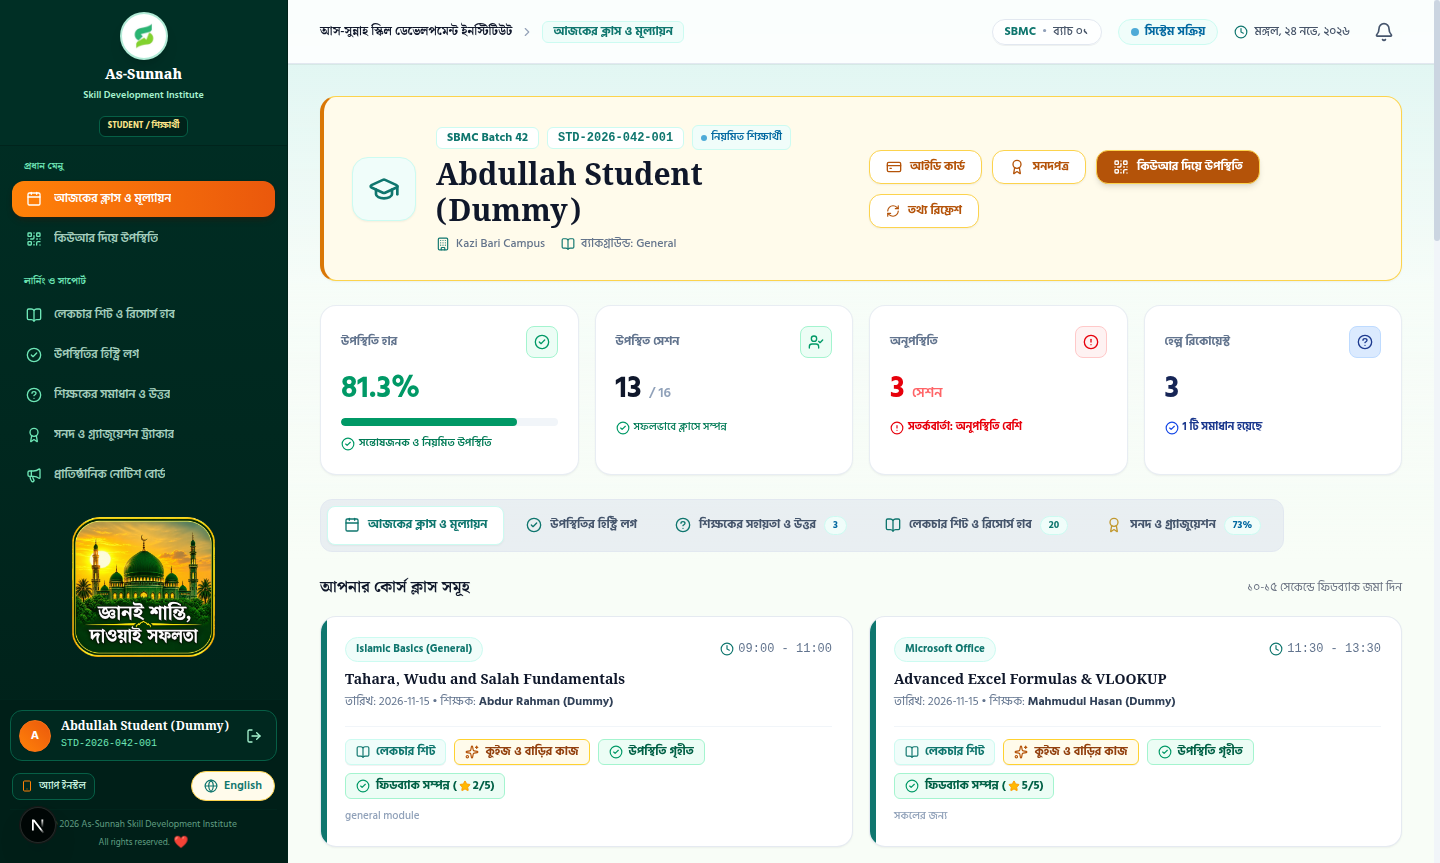
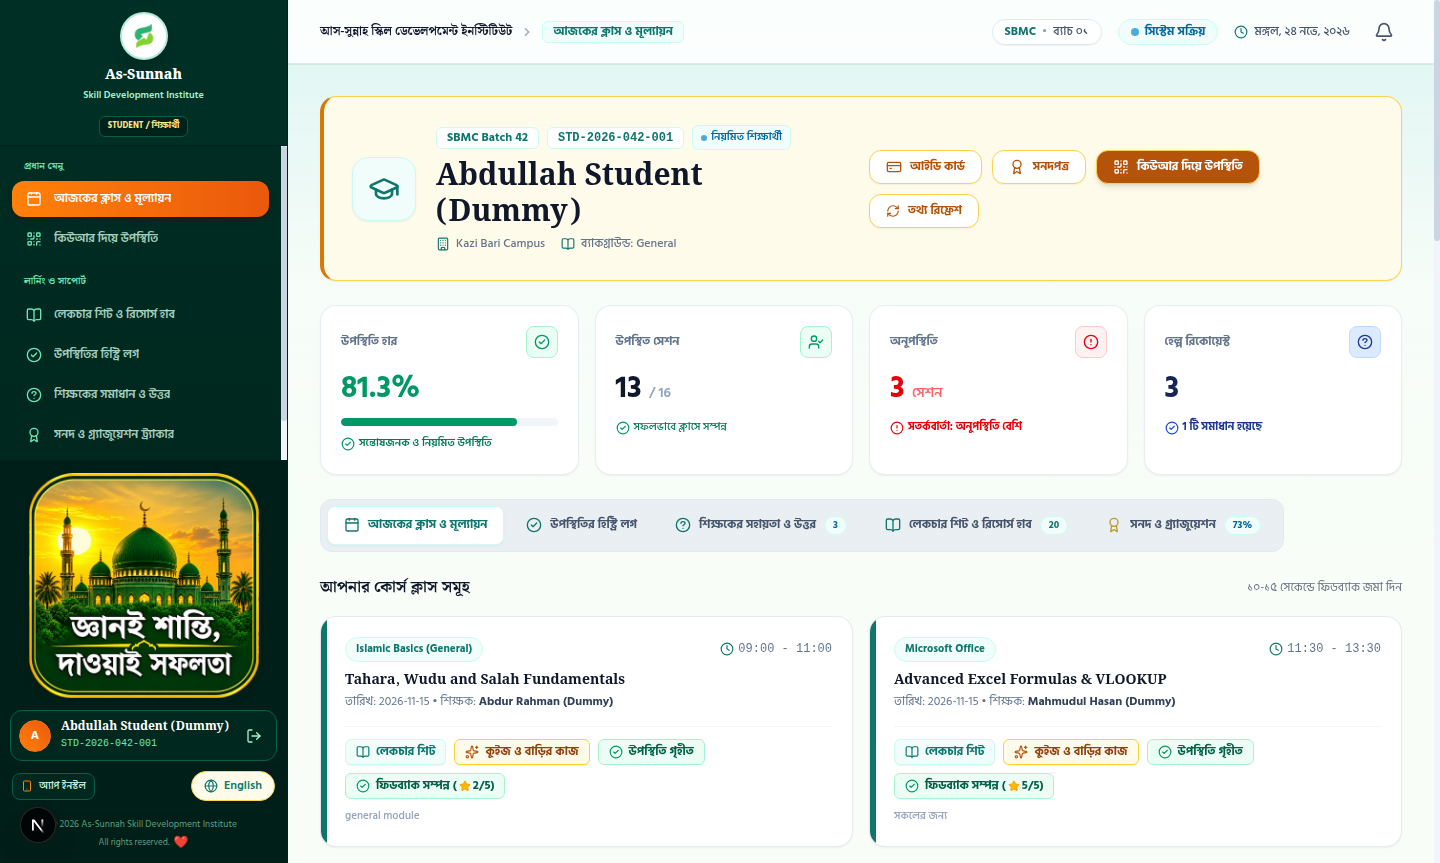
fix(student-ui): enlarge mosque card and position cleanly at bottom above user card

Changed region(s): [[0.0, 0.5423, 0.1875, 0.8134], [0.1875, 0.1808, 0.2188, 0.5122]]

diff --git a/web/src/components/layout/DashboardShell.tsx b/web/src/components/layout/DashboardShell.tsx
@@ -746,133 +746,118 @@ export default function DashboardShell({ children, role, noticeBanner }: Dashboa
           )}
 
           {/* Navigation Items (Serial by Serial) */}
-          <nav className="p-3 space-y-4 overflow-y-auto flex-1">
-            {navSections.map((sec, secIdx) => (
-              <div key={secIdx} className="space-y-1">
-                {(sec.titleBn || sec.titleEn) && (
-                  <p
-                    className={`px-3 text-[10px] font-bold uppercase tracking-widest mb-1.5 font-serif ${
-                      role === 'student' ? 'text-[#6EE7B7]' : 'text-[#B45309]'
-                    }`}
-                  >
-                    {isBangla ? sec.titleBn : sec.titleEn}
-                  </p>
-                )}
-
-                <ul className="space-y-1">
-                  {sec.items.map((item) => {
-                    const Icon = item.icon;
-                    const active = isLinkActive(item.href);
-
-                    return (
-                      <li key={item.href}>
-                        <Link
-                          href={item.href}
-                          onClick={() => handleNavClick(item.href)}
-                          className={`relative flex items-center justify-between gap-3 px-3.5 py-2.5 rounded-xl text-xs font-semibold transition-all cursor-pointer active:scale-[0.98] ${
-                            active
-                              ? role === 'student'
-                                ? 'bg-gradient-to-r from-[#FF8108] to-[#EA580C] text-white font-bold shadow-md shadow-orange-950/30'
-                                : 'bg-white text-[#B45309] shadow-xs border border-[#FCD34D] font-bold before:absolute before:left-0 before:top-2 before:bottom-2 before:w-1.5 before:bg-[#D97706] before:rounded-r'
-                              : role === 'student'
-                              ? 'text-[#D1FAE5]/80 hover:text-white hover:bg-white/10'
-                              : 'text-[#475569] hover:text-[#B45309] hover:bg-[#FEF3C7]/60'
-                          }`}
-                        >
-                          <div className="flex items-center gap-3 min-w-0">
-                            <Icon
-                              className={`w-4 h-4 shrink-0 ${
-                                active
-                                  ? 'text-white'
-                                  : role === 'student'
-                                  ? 'text-[#6EE7B7]'
-                                  : 'text-[#64748B] group-hover:text-[#B45309]'
-                              }`}
-                            />
-                            <span className="truncate">
-                              {isBangla ? item.labelBn : item.labelEn}
-                            </span>
-                          </div>
-
-                          {item.badge && (
-                            <span
-                              className={`px-1.5 py-0.5 rounded-full text-[10px] font-bold ${
-                                active
-                                  ? 'bg-white text-[#EA580C]'
-                                  : role === 'student'
-                                  ? 'bg-[#00221A] border border-[#065F46] text-[#6EE7B7]'
-                                  : 'bg-white/90 border border-[#FCD34D] text-[#B45309]'
-                              }`}
-                            >
-                              {item.badge}
-                            </span>
-                          )}
-                        </Link>
-                      </li>
-                    );
-                  })}
-                </ul>
-              </div>
-            ))}
-
-            {/* If in Reports Hub, show quick back to user dashboard */}
-            {role === 'reports' && (
-              <div className="pt-2 border-t border-[#FCD34D]/70">
-                <Link
-                  href={
-                    user?.role === 'super_admin'
-                      ? '/admin'
-                      : user?.role === 'teacher'
-                      ? '/teacher'
-                      : user?.role === 'student'
-                      ? '/student'
-                      : '/coordinator'
-                  }
-                  className="flex items-center gap-2.5 px-3.5 py-2.5 rounded-xl text-xs font-bold text-[#B45309] hover:bg-[#FEF3C7]/60 transition-colors"
-                >
-                  <ArrowLeft className="w-4 h-4 text-[#B45309]" />
-                  <span>{isBangla ? 'ড্যাশবোর্ডে ফিরে যান' : 'Back to Dashboard'}</span>
-                </Link>
-              </div>
-            )}
-
-            {/* Super Admin Navigation Customizer Button */}
-            {role === 'super_admin' && (
-              <div className="pt-2 border-t border-[#FCD34D]/70">
-                <button
-                  type="button"
-                  onClick={() => setMenuManagerOpen(true)}
-                  className="w-full py-2.5 px-3 rounded-xl bg-white hover:bg-[#FEF3C7] text-[#B45309] border border-[#FCD34D] text-xs font-bold transition flex items-center justify-between shadow-xs cursor-pointer active:scale-98"
-                >
-                  <div className="flex items-center gap-2">
-                    <Settings className="w-4 h-4 text-[#B45309]" />
-                    <span>{isBangla ? 'মেনু এডিটর ও আর্কাইভ' : 'Menu & Archive Control'}</span>
-                  </div>
-                  {adminMenus.some((m) => m.isArchived) && (
-                    <span className="px-1.5 py-0.2 rounded-full text-[9px] bg-[#B45309]/15 text-[#B45309] font-extrabold border border-[#B45309]/30">
-                      {adminMenus.filter((m) => m.isArchived).length} {isBangla ? 'হাইড' : 'hidden'}
-                    </span>
+          <nav className="p-3 overflow-y-auto flex-1 flex flex-col justify-between">
+            <div className="space-y-4">
+              {navSections.map((sec, secIdx) => (
+                <div key={secIdx} className="space-y-1">
+                  {(sec.titleBn || sec.titleEn) && (
+                    <p
+                      className={`px-3 text-[10px] font-bold uppercase tracking-widest mb-1.5 font-serif ${
+                        role === 'student' ? 'text-[#6EE7B7]' : 'text-[#B45309]'
+                      }`}
+                    >
+                      {isBangla ? sec.titleBn : sec.titleEn}
+                    </p>
                   )}
-                </button>
-              </div>
-            )}
 
-            {/* Islamic Mosque Artwork Quote Card (Student Only - Pure Image with NO black border) */}
-            {role === 'student' && (
-              <div className="pt-2 px-1 flex justify-center">
-                <div className="relative group max-w-[210px]">
-                  <Image
-                    src="/islamic-sidebar-card.png"
-                    alt="জ্ঞানই শান্তি, দাওয়াই সফলতা"
-                    width={260}
-                    height={260}
-                    priority
-                    quality={100}
-                    className="w-full h-auto max-h-[140px] object-contain group-hover:scale-102 transition-transform duration-300"
-                  />
+                  <ul className="space-y-1">
+                    {sec.items.map((item) => {
+                      const Icon = item.icon;
+                      const active = isLinkActive(item.href);
+
+                      return (
+                        <li key={item.href}>
+                          <Link
+                            href={item.href}
+                            onClick={() => handleNavClick(item.href)}
+                            className={`relative flex items-center justify-between gap-3 px-3.5 py-2.5 rounded-xl text-xs font-semibold transition-all cursor-pointer active:scale-[0.98] ${
+                              active
+                                ? role === 'student'
+                                  ? 'bg-gradient-to-r from-[#FF8108] to-[#EA580C] text-white font-bold shadow-md shadow-orange-950/30'
+                                  : 'bg-white text-[#B45309] shadow-xs border border-[#FCD34D] font-bold before:absolute before:left-0 before:top-2 before:bottom-2 before:w-1.5 before:bg-[#D97706] before:rounded-r'
+                                : role === 'student'
+                                ? 'text-[#D1FAE5]/80 hover:text-white hover:bg-white/10'
+                                : 'text-[#475569] hover:text-[#B45309] hover:bg-[#FEF3C7]/60'
+                            }`}
+                          >
+                            <div className="flex items-center gap-3 min-w-0">
+                              <Icon
+                                className={`w-4 h-4 shrink-0 ${
+                                  active
+                                    ? 'text-white'
+                                    : role === 'student'
+                                    ? 'text-[#6EE7B7]'
+                                    : 'text-[#64748B] group-hover:text-[#B45309]'
+                                }`}
+                              />
+                              <span className="truncate">
+                                {isBangla ? item.labelBn : item.labelEn}
+                              </span>
+                            </div>
+
+                            {item.badge && (
+                              <span
+                                className={`px-1.5 py-0.5 rounded-full text-[10px] font-bold ${
+                                  active
+                                    ? 'bg-white text-[#EA580C]'
+                                    : role === 'student'
+                                    ? 'bg-[#00221A] border border-[#065F46] text-[#6EE7B7]'
+                                    : 'bg-white/90 border border-[#FCD34D] text-[#B45309]'
+                                }`}
+                              >
+                                {item.badge}
+                              </span>
+                            )}
+                          </Link>
+                        </li>
+                      );
+                    })}
+                  </ul>
                 </div>
-              </div>
-            )}
+              ))}
+
+              {/* If in Reports Hub, show quick back to user dashboard */}
+              {role === 'reports' && (
+                <div className="pt-2 border-t border-[#FCD34D]/70">
+                  <Link
+                    href={
+                      user?.role === 'super_admin'
+                        ? '/admin'
+                        : user?.role === 'teacher'
+                        ? '/teacher'
+                        : user?.role === 'student'
+                        ? '/student'
+                        : '/coordinator'
+                    }
+                    className="flex items-center gap-2.5 px-3.5 py-2.5 rounded-xl text-xs font-bold text-[#B45309] hover:bg-[#FEF3C7]/60 transition-colors"
+                  >
+                    <ArrowLeft className="w-4 h-4 text-[#B45309]" />
+                    <span>{isBangla ? 'ড্যাশবোর্ডে ফিরে যান' : 'Back to Dashboard'}</span>
+                  </Link>
+                </div>
+              )}
+
+              {/* Super Admin Navigation Customizer Button */}
+              {role === 'super_admin' && (
+                <div className="pt-2 border-t border-[#FCD34D]/70">
+                  <button
+                    type="button"
+                    onClick={() => setMenuManagerOpen(true)}
+                    className="w-full py-2.5 px-3 rounded-xl bg-white hover:bg-[#FEF3C7] text-[#B45309] border border-[#FCD34D] text-xs font-bold transition flex items-center justify-between shadow-xs cursor-pointer active:scale-98"
+                  >
+                    <div className="flex items-center gap-2">
+                      <Settings className="w-4 h-4 text-[#B45309]" />
+                      <span>{isBangla ? 'মেনু এডিটর ও আর্কাইভ' : 'Menu & Archive Control'}</span>
+                    </div>
+                    {adminMenus.some((m) => m.isArchived) && (
+                      <span className="px-1.5 py-0.2 rounded-full text-[9px] bg-[#B45309]/15 text-[#B45309] font-extrabold border border-[#B45309]/30">
+                        {adminMenus.filter((m) => m.isArchived).length} {isBangla ? 'হাইড' : 'hidden'}
+                      </span>
+                    )}
+                  </button>
+                </div>
+              )}
+            </div>
           </nav>
         </div>
 
@@ -884,6 +869,23 @@ export default function DashboardShell({ children, role, noticeBanner }: Dashboa
               : 'border-[#FCD34D] bg-[#FFFBEB]'
           }`}
         >
+          {/* Islamic Mosque Artwork Quote Card (Student Only - Prominent & Beautifully Balanced) */}
+          {role === 'student' && (
+            <div className="pt-0.5 pb-1 px-1 flex justify-center">
+              <div className="relative group w-full max-w-[230px]">
+                <Image
+                  src="/islamic-sidebar-card.png"
+                  alt="জ্ঞানই শান্তি, দাওয়াই সফলতা"
+                  width={320}
+                  height={320}
+                  priority
+                  quality={100}
+                  className="w-full h-auto object-contain drop-shadow-md group-hover:scale-102 transition-transform duration-300"
+                />
+              </div>
+            </div>
+          )}
+
           {/* User info snippet */}
           <div
             className={`flex items-center justify-between gap-2 p-2 rounded-xl shadow-2xs ${
